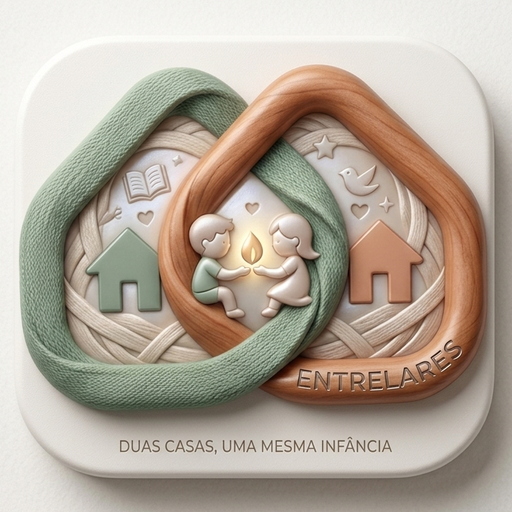
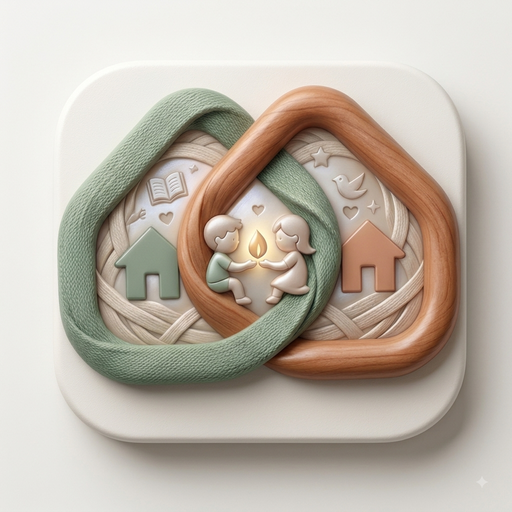
feat(marca): masters finais da identidade — emblema sem textos + variante flat (F-54)
Par do commit homônimo no entrelares-app: o master vira o emblema quadrado
1024² SEM textos e entra a variante flat.

- assets-src/brand-emblema.png: substituído pelo master sem textos (1024²)
- assets-src/brand-emblema-flat.png: variante flat — vira a fonte do
  favicon.png (96), onde o 3D borrava e o traço flat continua nítido;
  icon-192/512 seguem do 3D
- assets-src/brand-icons.py: derivação atualizada
- Banners OG PT/EN: cartão quadrado 1:1 com o master sem textos (sem
  duplicar o tagline, que já é o headline)

Backlog: F-54

diff --git a/assets-src/og-cover-en.html b/assets-src/og-cover-en.html
@@ -6,12 +6,11 @@
 <!--
   L-16/F-54 — generator for public/og-cover-en.png (the English social-sharing banner).
 
-  Identity "O Emblema" (F-54): the official brand artwork (assets-src/
-  brand-emblema.png, AI-generated, approved by the owner — no vector source) shown
+  Identity "O Emblema" (F-54): the official brand artwork (assets-src/brand-emblema.png,
+  1024x1024 text-free, AI-generated, approved by the owner — no vector source) shown
   as a framed card on the cream layout, navy #2F4156 for text. The card's
-  background-size/position crop the source's (219,0)-(1178,752) window; recompute
-  them if the artwork or the card size changes (bg-size = 1380*W/959, bg-pos-x =
-  -219*W/959). The brand-row icon is the RENDERED public/icon-192.png, so it always
+  square framed card shows the TEXT-FREE square master 1:1 (the favicon derives
+  from the flat variant brand-emblema-flat.png — see brand-icons.py). The brand-row icon is the RENDERED public/icon-192.png, so it always
   matches the shipped icon (see assets-src/brand-icons.py). The PT-BR banner
   (public/og-cover.png, og-cover.html) carries Portuguese text, so reusing it on
   /en/ would show a Portuguese preview to exactly the reader the English page
@@ -57,7 +56,7 @@
   .brand img { width: 62px; height: 62px; border-radius: 16px; display: block; }
   .brand span { font-size: 31px; font-weight: 700; letter-spacing: -0.01em; }
 
-  .mid { position: absolute; top: 172px; left: 70px; right: 470px; }
+  .mid { position: absolute; top: 172px; left: 70px; right: 452px; }
   h1 {
     font-size: 61px; font-weight: 800; line-height: 1.12; letter-spacing: -0.025em;
     color: #2f4156; margin-bottom: 24px;
@@ -65,15 +64,14 @@
   .sub { font-size: 27px; line-height: 1.42; color: #56636e; }
   .sub b { color: #2f4156; font-weight: 700; }
 
-  /* the brand plaque, framed: source window (219,0)-(1178,752) of the 1380px art */
+  /* the brand plaque, framed: the square text-free master, shown 1:1 */
   .art {
-    position: absolute; top: 156px; right: 62px;
-    width: 380px; height: 298px;
+    position: absolute; top: 148px; right: 66px;
+    width: 316px; height: 316px;
     border-radius: 24px; overflow: hidden;
     box-shadow: 0 12px 32px rgba(93, 79, 54, 0.18);
-    background: url(brand-emblema.png) no-repeat #eeece7;
-    background-size: 547px auto;
-    background-position: -87px 0;
+    background: url(brand-emblema.png) no-repeat #f2f0ec;
+    background-size: 100% 100%;
   }
 
   .foot { position: absolute; bottom: 54px; left: 70px; right: 70px;

diff --git a/assets-src/og-cover.html b/assets-src/og-cover.html
@@ -6,12 +6,11 @@
 <!--
   F-54 — generator for public/og-cover.png (the PT-BR social-sharing banner).
 
-  Identity "O Emblema" (F-54): the official brand artwork (assets-src/
-  brand-emblema.png, AI-generated, approved by the owner — no vector source) shown
+  Identity "O Emblema" (F-54): the official brand artwork (assets-src/brand-emblema.png,
+  1024x1024 text-free, AI-generated, approved by the owner — no vector source) shown
   as a framed card on the cream layout, navy #2F4156 for text. The card's
-  background-size/position crop the source's (219,0)-(1178,752) window; recompute
-  them if the artwork or the card size changes (bg-size = 1380*W/959, bg-pos-x =
-  -219*W/959). The brand-row icon is the RENDERED public/icon-192.png, so it always
+  square framed card shows the TEXT-FREE square master 1:1 (the favicon derives
+  from the flat variant brand-emblema-flat.png — see brand-icons.py). The brand-row icon is the RENDERED public/icon-192.png, so it always
   matches the shipped icon (see assets-src/brand-icons.py). The English sibling is
   og-cover-en.html.
 
@@ -54,7 +53,7 @@
   .brand img { width: 62px; height: 62px; border-radius: 16px; display: block; }
   .brand span { font-size: 31px; font-weight: 700; letter-spacing: -0.01em; }
 
-  .mid { position: absolute; top: 172px; left: 70px; right: 470px; }
+  .mid { position: absolute; top: 172px; left: 70px; right: 452px; }
   h1 {
     font-size: 61px; font-weight: 800; line-height: 1.12; letter-spacing: -0.025em;
     color: #2f4156; margin-bottom: 24px;
@@ -62,15 +61,14 @@
   .sub { font-size: 27px; line-height: 1.42; color: #56636e; }
   .sub b { color: #2f4156; font-weight: 700; }
 
-  /* the brand plaque, framed: source window (219,0)-(1178,752) of the 1380px art */
+  /* the brand plaque, framed: the square text-free master, shown 1:1 */
   .art {
-    position: absolute; top: 156px; right: 62px;
-    width: 380px; height: 298px;
+    position: absolute; top: 148px; right: 66px;
+    width: 316px; height: 316px;
     border-radius: 24px; overflow: hidden;
     box-shadow: 0 12px 32px rgba(93, 79, 54, 0.18);
-    background: url(brand-emblema.png) no-repeat #eeece7;
-    background-size: 547px auto;
-    background-position: -87px 0;
+    background: url(brand-emblema.png) no-repeat #f2f0ec;
+    background-size: 100% 100%;
   }
 
   .foot { position: absolute; bottom: 54px; left: 70px; right: 70px;

diff --git a/assets-src/brand-icons.py b/assets-src/brand-icons.py
@@ -1,33 +1,39 @@
 #!/usr/bin/env python3
 """F-54 — derive the site icons from the official Entrelares brand artwork.
 
-The MASTER is assets-src/brand-emblema.png (1380x752): the 3D emblem the owner
-approved — two interlocked house-rings (sage fabric + terracotta wood) on a white
-squircle plaque, children lighting a flame at the junction, embossed houses,
-"ENTRELARES" engraved and the tagline "DUAS CASAS, UMA MESMA INFANCIA" on the
-plaque. Generated by an external AI tool; there is no vector source — ask for a
-new generation to change the art, then re-run this script.
+Two masters, both AI-generated and approved by the owner (no vector source — ask
+for a new generation to change the art, then re-run this script):
 
-The plaque sits at (352,62)-(1046,690); the icon is a 730x730 crop centred on it:
-(334,11)-(1064,741).
+- assets-src/brand-emblema.png (1024x1024, TEXT-FREE): the 3D emblem — two
+  interlocked house-rings (sage fabric + terracotta wood) bleeding over a white
+  squircle plaque, children lighting a flame at the junction, embossed houses.
+  Used for icon-192/icon-512 (full frame, already centred with margin).
+- assets-src/brand-emblema-flat.png (1380x752): the flat/"vector-style" rendition
+  of the same emblem. Used ONLY for favicon.png (96): at small sizes the flat
+  linework stays crisp where the 3D render turns to mush. The plaque sits at
+  (388,38)-(1005,658); the favicon is the 640x640 crop (376,28)-(1016,668).
 
 Usage (needs Pillow):  python3 assets-src/brand-icons.py
 
 Outputs:  public/favicon.png (96)   public/icon-192.png   public/icon-512.png
 
-The app repo carries its own copy of the master and of this script
-(store/brand-emblema.png + store/brand-icons.py, which also builds the maskable
+The app repo carries its own copy of the masters and of this script
+(store/brand-emblema*.png + store/brand-icons.py, which also builds the maskable
 variants) — regenerate BOTH repos when the artwork changes.
 """
 from PIL import Image
 from pathlib import Path
 
 ROOT = Path(__file__).resolve().parent.parent
-CROP = (334, 11, 1064, 741)  # 730x730 square centred on the plaque
+FLAT_CROP = (376, 28, 1016, 668)  # 640x640 square centred on the flat plaque
 
-src = Image.open(ROOT / "assets-src" / "brand-emblema.png").convert("RGB")
-square = src.crop(CROP)
+emblem = Image.open(ROOT / "assets-src" / "brand-emblema.png").convert("RGB")
+flat = Image.open(ROOT / "assets-src" / "brand-emblema-flat.png").convert("RGB")
 
-for size, name in ((96, "favicon.png"), (192, "icon-192.png"), (512, "icon-512.png")):
-    square.resize((size, size), Image.LANCZOS).save(ROOT / "public" / name, optimize=True)
+for size, name in ((192, "icon-192.png"), (512, "icon-512.png")):
+    emblem.resize((size, size), Image.LANCZOS).save(ROOT / "public" / name, optimize=True)
     print("ok", name)
+
+flat.crop(FLAT_CROP).resize((96, 96), Image.LANCZOS).save(
+    ROOT / "public" / "favicon.png", optimize=True)
+print("ok favicon.png")
